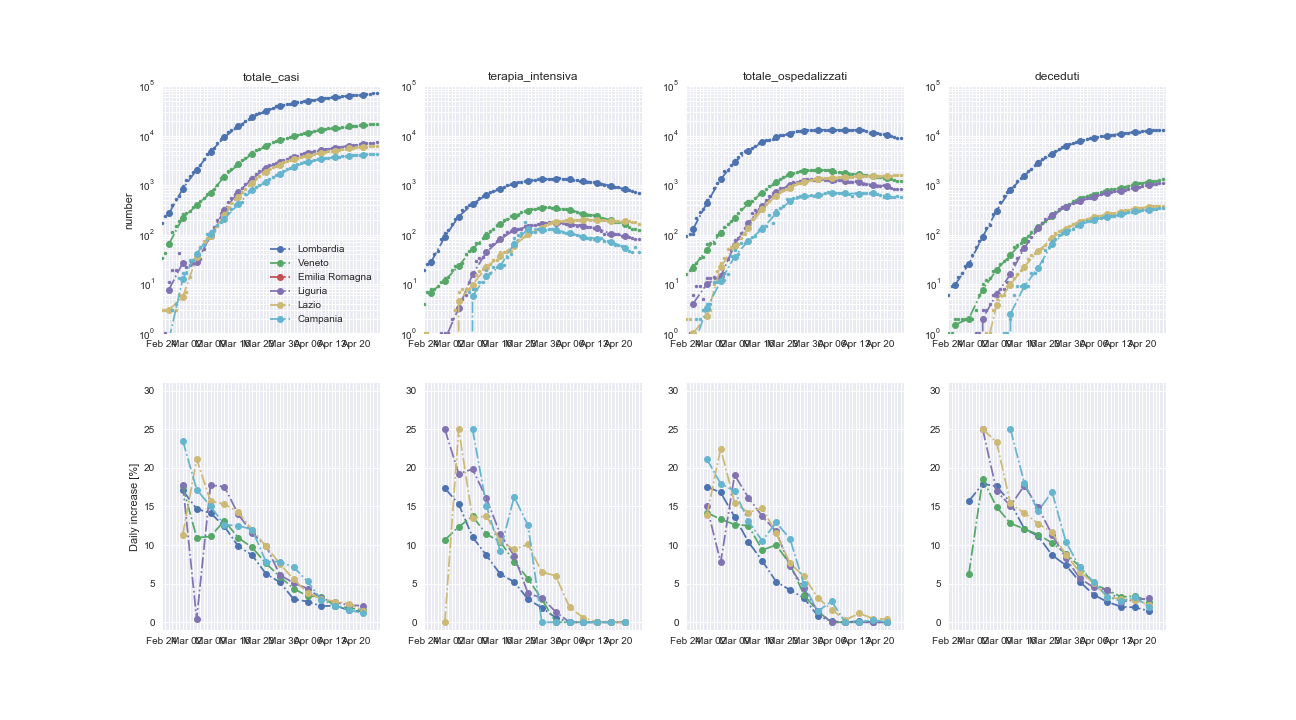
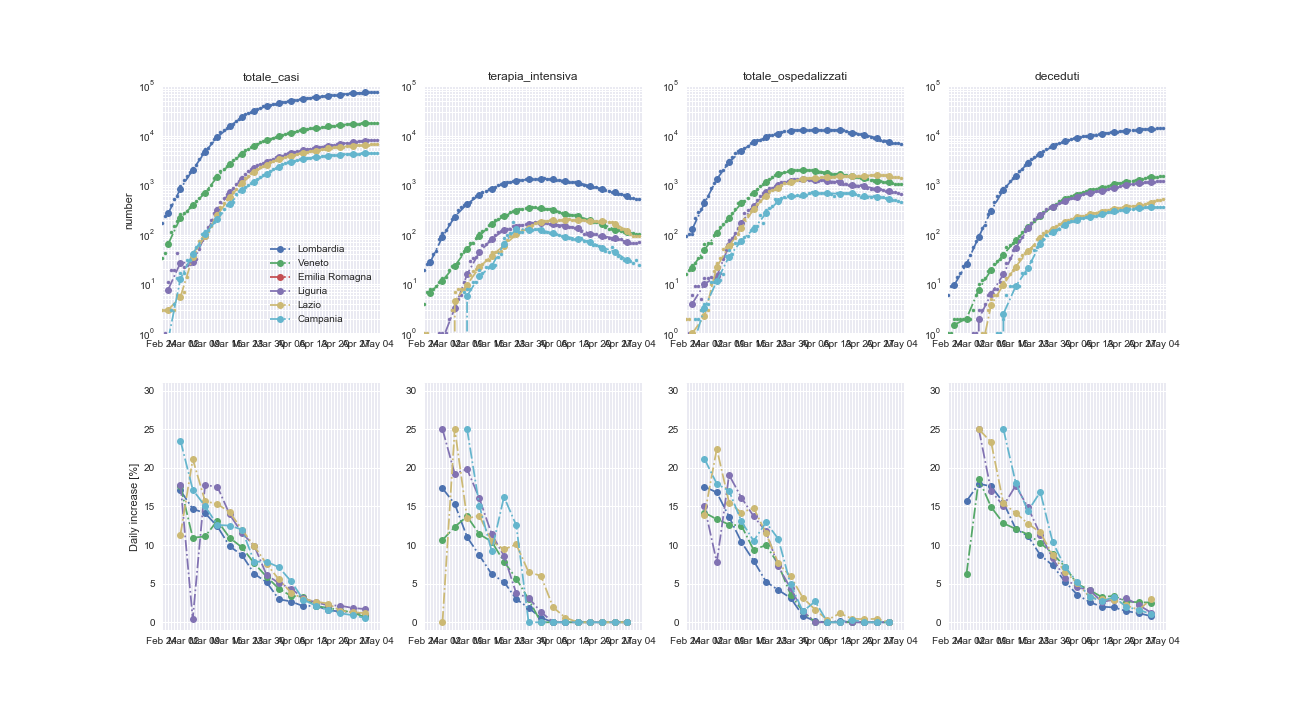
update

diff --git a/plot_ita.py b/plot_ita.py
@@ -2,9 +2,9 @@
 # coding: utf-8
 
 # # COVID-19 Italia
-# 
+#
 # https://github.com/pcm-dpc/COVID-19
-# 
+#
 # http://opendatadpc.maps.arcgis.com/apps/opsdashboard/index.html#/b0c68bce2cce478eaac82fe38d4138b1
 
 # In[1]:
@@ -64,7 +64,7 @@ dati[dati['denominazione_provincia'] == 'Milano']['totale_casi'].tail()
 
 
 get_ipython().run_line_magic('matplotlib', 'inline')
-#%matplotlib 
+#%matplotlib
 #plt.rcParams['figure.figsize'] = [10, 10]
 
 plt.close('all')
@@ -101,7 +101,7 @@ plt.grid(True, 'both')
 
 
 get_ipython().run_line_magic('matplotlib', 'inline')
-#%matplotlib 
+#%matplotlib
 plt.rcParams['figure.figsize'] = [7, 15]
 
 # ln(2)/(d ln N/dt)
@@ -127,12 +127,12 @@ for name in lista:
     #y = np.log( c ); y[0] = 0 ; y[1:] = y[1:] - y[:-1] ; y = [ (log(2) / yy if yy>0 else float('nan')) for yy in y ]
     y = np.zeros( len(x) )
     y[1:] = ( c[1:] - c[:-1] ) / c[1:]
-    #y =  y.clip(min=0)  
+    #y =  y.clip(min=0)
     y[ y<0 ] = 0.0
     ax[1].plot(x,100*y,marker='o',linestyle=':',label=name)
     yd = np.log( 1 + y )
     yd = log(2) / yd
-    ax[2].plot(x,yd,marker='o',linestyle=':',label=name)    
+    ax[2].plot(x,yd,marker='o',linestyle=':',label=name)
 ax[0].legend()
 ax[0].set_ylabel('Contagi')
 ax[0].set_yscale('log')
@@ -162,7 +162,7 @@ ax[2].set_ylim([-3,33])
 
 
 get_ipython().run_line_magic('matplotlib', 'inline')
-#%matplotlib 
+#%matplotlib
 #plt.rcParams['figure.figsize'] = [8, 20]
 
 url = 'https://raw.githubusercontent.com/pcm-dpc/COVID-19/master/dati-province/dpc-covid19-ita-province.csv'
@@ -172,7 +172,7 @@ plt.close('all')
 mpl.style.use('seaborn')
 fig, ax = plt.subplots( 3, 1, figsize=(6, 15))
 
-start = 0; step = 2
+start = 0; step = 7
 #lista = ['Treviso']
 #lista = ['Roma', 'Treviso']
 lista = []
@@ -194,11 +194,11 @@ lista.append('Lodi')
 for n, name in enumerate(lista):
     print(name)
     cn='C{}'.format(n)
-    
+
     ct = dati[dati['denominazione_provincia'] == name]['totale_casi'].to_numpy()
     xt = np.arange(len(ct))
-    ax[0].plot(xt,ct,marker='.',linestyle='',label='', color=cn) 
-    
+    ax[0].plot(xt,ct,marker='.',linestyle='',label='', color=cn)
+
     c = ct[start+step-1::step]
     c2 = c**2
     for i in range(step-1):
@@ -214,10 +214,10 @@ for n, name in enumerate(lista):
     ax[0].plot(x,c,marker='o',linestyle='-.',label=name, color=cn)
     #ax[0].errorbar(x,c,cerr,marker='s',linestyle=':',label=name)
     ax[0].legend()
-    
+
     y = np.zeros( len(x) )
     y[1:] = ( c[1:] - c[:-1] ) / (step * c[1:])
-    #y =  y.clip(min=0)  
+    #y =  y.clip(min=0)
     y[ y<0 ] = 0.0
     ax[1].plot( x[1:], 100*y[1:], marker='o',linestyle='-.',label=name)
     #ax[1].errorbar( x, 100*y, yerr=cerr/c, marker='o',linestyle=':',label=name)
@@ -225,13 +225,13 @@ for n, name in enumerate(lista):
     ax[1].set_ylim(0)
 
     yd = np.log( 1 + y )
-    yd[ yd>0 ] = log(2) / yd[ yd>0 ] 
-    yd[ yd<=0 ] = float('nan') 
-    ax[2].plot(x[1:],yd[1:],marker='o',linestyle='-.',label=name)    
+    yd[ yd>0 ] = log(2) / yd[ yd>0 ]
+    yd[ yd<=0 ] = float('nan')
+    ax[2].plot(x[1:],yd[1:],marker='o',linestyle='-.',label=name)
     #ax[2].set_yscale('log')
     ax[2].set_ylabel('Doubling time [days]')
     #ax[2].set_xlabel('Giorni dal 24 Feb.')
-    
+
     #y = np.log( c ); y[0] = 0 ; y[1:] = y[1:] - y[:-1] ; y = [ (log(2) / yy if yy>0 else float('nan')) for yy in y ]
 
 
@@ -240,7 +240,7 @@ rindex = range(len(index))
 xticks = rindex
 fxticks = [ date.strftime('%b %d') for date in list( index ) ]
 
-step=4
+step=7
 for i in range(3):
     ax[i].set_xlim( 0, xt.max()+1)
     ax[i].set_xticks(xticks[::step])
@@ -269,7 +269,7 @@ url = 'https://raw.githubusercontent.com/pcm-dpc/COVID-19/master/dati-regioni/dp
 dati = pd.read_csv( url, parse_dates=['data'], index_col=0)
 
 get_ipython().run_line_magic('matplotlib', 'inline')
-#%matplotlib 
+#%matplotlib
 #plt.rcParams['figure.figsize'] = [8, 10]
 
 campi = ['totale_casi']
@@ -299,11 +299,11 @@ for i, campo in enumerate(campi):
     for n, name in enumerate(lista):
         print(name)
         cn='C{}'.format(n)
-    
+
         ct = dati[dati['denominazione_regione'] == name][campo].to_numpy()
         xt = np.arange(len(ct))
-        ax[0,i].plot(xt,ct,marker='.',linestyle='',label='', color=cn) 
-    
+        ax[0,i].plot(xt,ct,marker='.',linestyle='',label='', color=cn)
+
         c = ct[start+step-1::step]
         c2 = c**2
         for j in range(step-1):
@@ -319,24 +319,24 @@ for i, campo in enumerate(campi):
         ax[0,i].set_ylim(1,1e5)
         ax[0,i].plot(x,c,marker='o',linestyle='-.',label=name, color=cn)
         ax[0,i].set_title(campo)
-    
+
         y = np.zeros( len(x) )
         y[1:] = ( c[1:] - c[:-1] ) / (step * c[1:])
-        #y =  y.clip(min=0)  
+        #y =  y.clip(min=0)
         y[ y<0 ] = 0.0
         ax[1,i].plot( x[1:], 100*y[1:], marker='o',linestyle='-.',label=name)
         ax[1,0].set_ylabel('Daily increase [%]')
         ax[1,i].set_ylim(-1,31)
 
         #yd = np.log( 1 + y )
-        #yd[ yd>0 ] = log(2) / yd[ yd>0 ] 
-        #yd[ yd<=0 ] = float('nan') 
-        #ax[2,i].plot(x[1:],yd[1:],marker='o',linestyle='-.',label=name)    
+        #yd[ yd>0 ] = log(2) / yd[ yd>0 ]
+        #yd[ yd<=0 ] = float('nan')
+        #ax[2,i].plot(x[1:],yd[1:],marker='o',linestyle='-.',label=name)
         #ax[2,0].set_ylabel('Doubling time [days]')
         #ax[2,i].set_ylim(-1,15)
 
 
-    
+
     #y = np.log( c ); y[0] = 0 ; y[1:] = y[1:] - y[:-1] ; y = [ (log(2) / yy if yy>0 else float('nan')) for yy in y ]
 
 
@@ -371,7 +371,7 @@ url = 'https://raw.githubusercontent.com/pcm-dpc/COVID-19/master/dati-regioni/dp
 dati = pd.read_csv( url, parse_dates=['data'], index_col=0)
 
 get_ipython().run_line_magic('matplotlib', 'inline')
-#%matplotlib 
+#%matplotlib
 #plt.rcParams['figure.figsize'] = [8, 10]
 
 campi = ['totale_casi']
@@ -399,13 +399,13 @@ for i, campo in enumerate(campi):
     for n, name in enumerate(lista):
         print(name)
         cn='C{}'.format(n)
-    
+
         ct = dati[dati['denominazione_regione'] == name][campo].to_numpy()
         xt = np.arange(len(ct))
         dc = ct[1:] - ct[:-1]
         dc = np.convolve(dc, np.ones((step,))/step, mode='valid')
-        ax[i].plot( ct[step:], dc, marker='.',linestyle='--',label=name, color=cn) 
-    
+        ax[i].plot( ct[step:], dc, marker='.',linestyle='--',label=name, color=cn)
+
         ax[i].set_xlabel( 'total' )
         ax[i].set_ylabel( 'increment (avg {} days)'.format(step) )
         ax[i].set_xscale('log')

diff --git a/plot_world.py b/plot_world.py
@@ -127,6 +127,7 @@ lista.append('Singapore')
 lista.append('Brazil')
 lista.append('Australia')
 lista.append('India')
+lista.append('Russia')
 
 for name in lista:
 #    print(name)
@@ -215,6 +216,7 @@ lista.append('Singapore')
 lista.append('Brazil')
 lista.append('Australia')
 lista.append('India')
+lista.append('Russia')
 
 xmin = 1; xmax = 10;
 delay = 7 # days
@@ -311,9 +313,10 @@ lista.append('United Kingdom')
 
 #lista.append('Japan')
 #lista.append('Singapore')
-#lista.append('Brazil')
+lista.append('Brazil')
 #lista.append('Australia')
-#lista.append('India')
+lista.append('India')
+lista.append('Russia')
 
 xmin = 1; xmax = 10;
 
@@ -422,6 +425,7 @@ lista.append('Singapore')
 lista.append('Brazil')
 lista.append('Australia')
 lista.append('India')
+lista.append('Russia')
 
 deaths_xzero = 50
 
@@ -530,6 +534,7 @@ lista.append('Singapore')
 lista.append('Brazil')
 lista.append('Australia')
 lista.append('India')
+lista.append('Russia')
 
 y_xzero = 100
 
